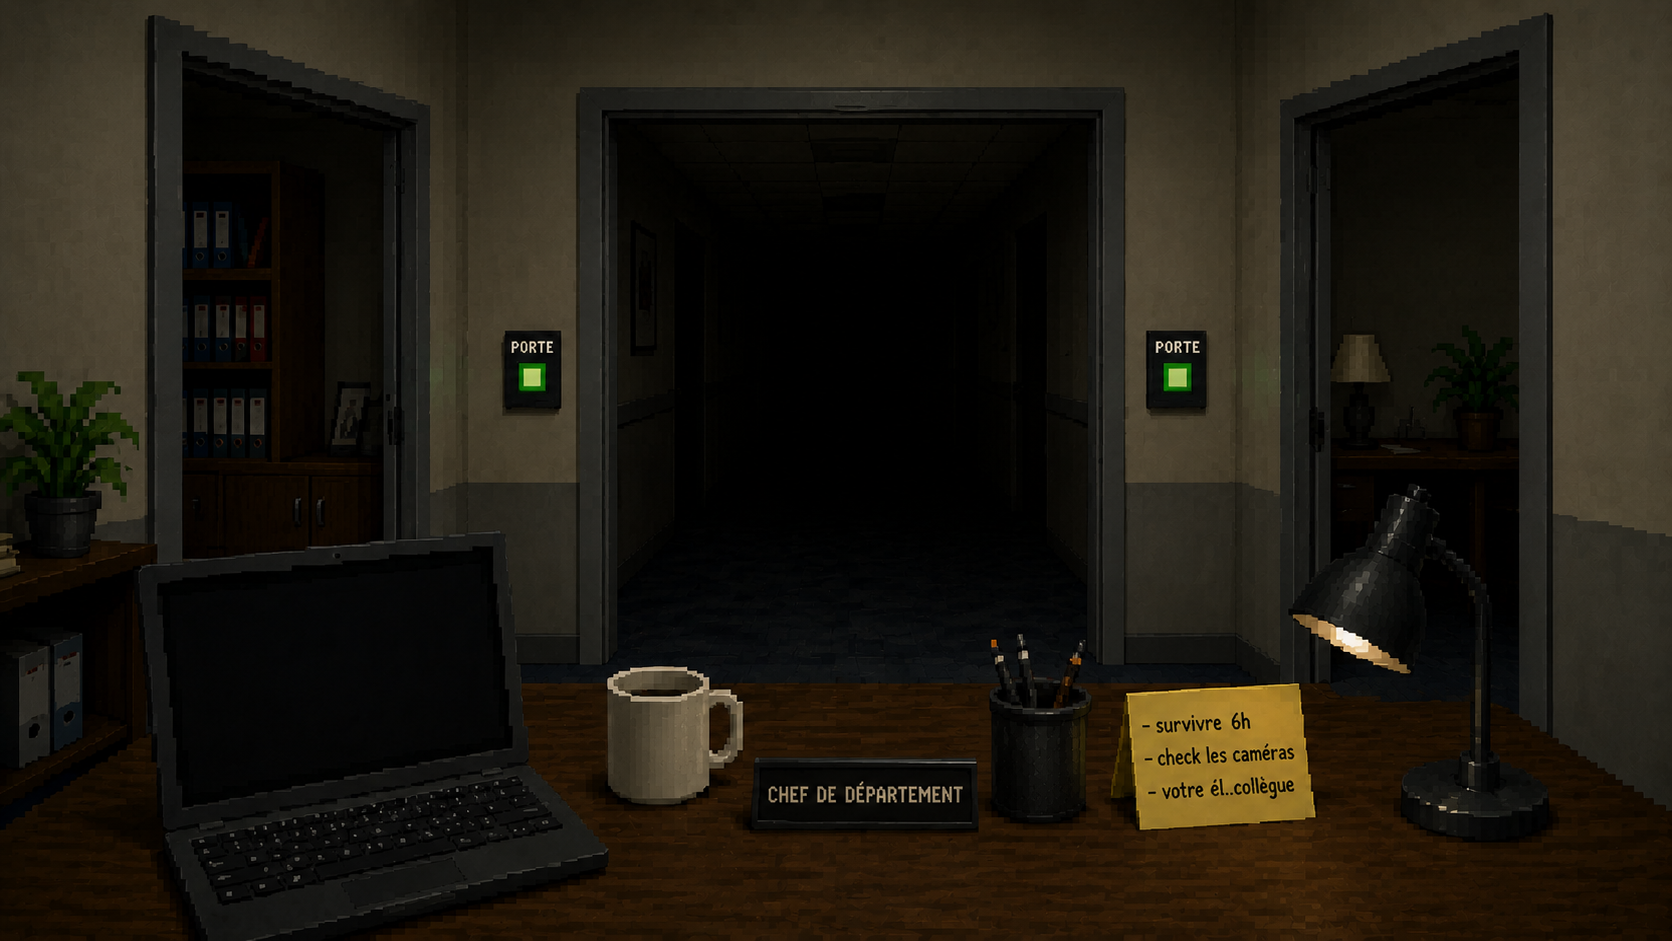
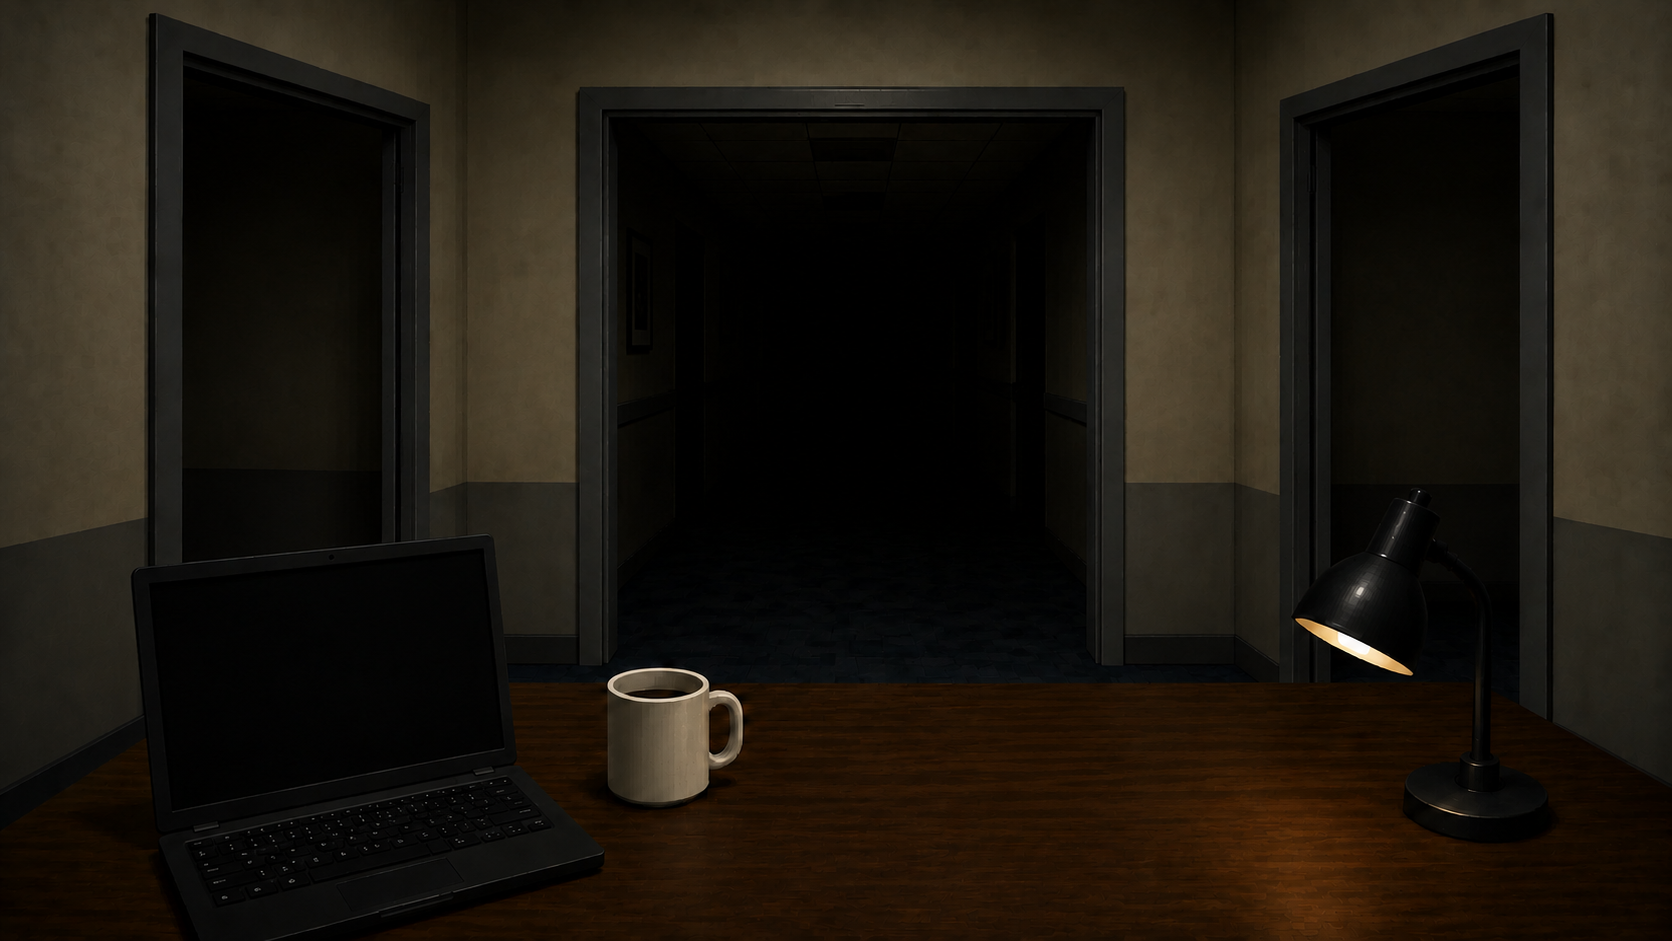
Mes avancées

diff --git a/FNAI/PlayGame.xaml b/FNAI/PlayGame.xaml
@@ -7,15 +7,43 @@
         mc:Ignorable="d"
         Title="PlayGame"
         WindowStyle="None"
-        WindowState="Maximized">
-    <Grid>
-        <Image Source="/Assets/Scene.png" Stretch="UniformToFill"/>
+        WindowState="Maximized"
+        KeyDown="Window_KeyDown">
 
+    <Window.Resources>
+        <Storyboard x:Key="AnimationCache">
+            <DoubleAnimation Storyboard.TargetName="SceneJeu" 
+                             Storyboard.TargetProperty="Opacity" 
+                             From="1.0" To="0.0" Duration="0:0:0.5"/>
+        </Storyboard>
+
+        <Storyboard x:Key="AnimationSortir">
+            <DoubleAnimation Storyboard.TargetName="SceneJeu" 
+                             Storyboard.TargetProperty="Opacity" 
+                             From="0.0" To="1.0" Duration="0:0:0.5"/>
+        </Storyboard>
+    </Window.Resources>
+
+    <Grid>
+        <Grid x:Name="SceneJeu" Visibility="Visible">
+            <Image Source="/Assets/Scene.png" Stretch="UniformToFill"/>
             <Button x:Name="MuteCallButton" Content="Mute Call"
-                HorizontalAlignment="Left"
-                VerticalAlignment="Top"
-                Margin="724,19,0,0"
-                Click="mutecall"/>
-        <Canvas x:Name="CanvasPopups"/>
+                    HorizontalAlignment="Left"
+                    VerticalAlignment="Top"
+                    Margin="724,19,0,0"
+                    Click="mutecall"/>
+            <Canvas x:Name="CanvasPopups"/>
+        </Grid>
+
+        <Grid x:Name="SceneCachette" Visibility="Collapsed" Background="Black">
+            <Image Source="/Assets/UnderTable.jpg" Stretch="UniformToFill"/>
+        </Grid>
+        <MediaElement x:Name="VideoTransition" 
+                  Source="Assets/SlideUnderTable.mp4" 
+                  LoadedBehavior="Manual" 
+                  UnloadedBehavior="Stop"
+                  Stretch="UniformToFill" 
+                  Visibility="Collapsed"
+                  MediaEnded="VideoTransition_MediaEnded"/>
     </Grid>
 </Window>

diff --git a/FNAI/PlayGame.xaml.cs b/FNAI/PlayGame.xaml.cs
@@ -9,6 +9,7 @@ using System.Windows.Data;
 using System.Windows.Documents;
 using System.Windows.Input;
 using System.Windows.Media;
+using System.Windows.Media.Animation;
 using System.Windows.Media.Imaging;
 using System.Windows.Shapes;
 using System.Windows.Threading;
@@ -25,6 +26,7 @@ namespace FNAI
         private MediaPlayer backgroundMusic = new MediaPlayer();
         private Random random = new Random();
         private DispatcherTimer timerApparition;
+        private bool isTransitioning = false;
         public PlayGame()
         {
             InitializeComponent();
@@ -104,5 +106,51 @@ namespace FNAI
                 CreerNouvellePopup(pvDeBase);
             }
         }
+        private void Window_KeyDown(object sender, KeyEventArgs e)
+        {
+            if (e.Key == Key.Space && !isTransitioning)
+            {
+                if (SceneJeu.Visibility == Visibility.Visible)
+                {
+                    isTransitioning = true;
+                    VideoTransition.Visibility = Visibility.Visible;
+                    VideoTransition.Position = TimeSpan.Zero; 
+                    VideoTransition.Play();
+                }
+                else
+                {
+                    SceneCachette.Visibility = Visibility.Collapsed;
+                    SceneJeu.Visibility = Visibility.Visible;
+                }
+            }
+            if (e.Key == Key.Escape)
+            {
+
+                MainWindow mainWindow = new MainWindow();
+                mainWindow.Show();
+                battalSpeach.Stop();
+                phoneRing.Stop();
+                this.Close();
+            }
+        }
+
+       
+        private void VideoTransition_MediaEnded(object sender, RoutedEventArgs e)
+        {
+            isTransitioning = false;
+            VideoTransition.Visibility = Visibility.Collapsed;
+            SceneJeu.Visibility = Visibility.Collapsed;
+            SceneCachette.Visibility = Visibility.Visible;
+        }
+
+        private void Window_Closed(object sender, EventArgs e)
+        {
+            backgroundMusic.Stop();
+            battalSpeach.Stop();
+            phoneRing.Stop();
+        }
+
+
+
     }
 }